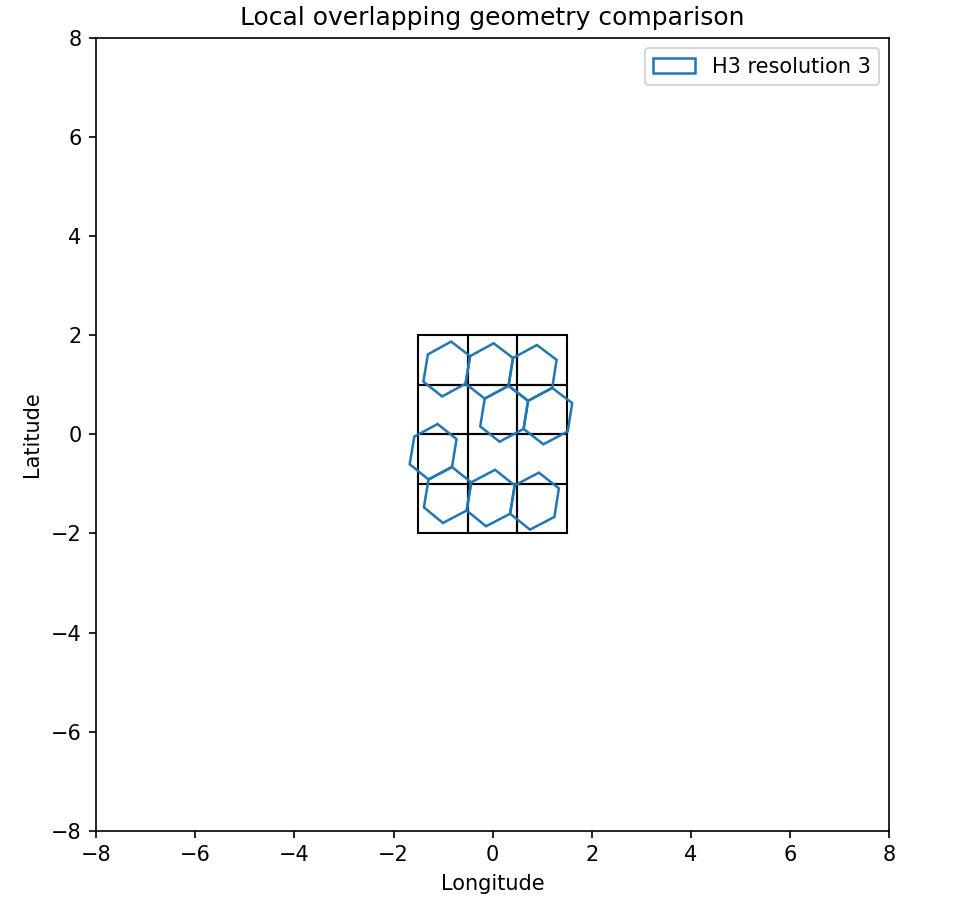
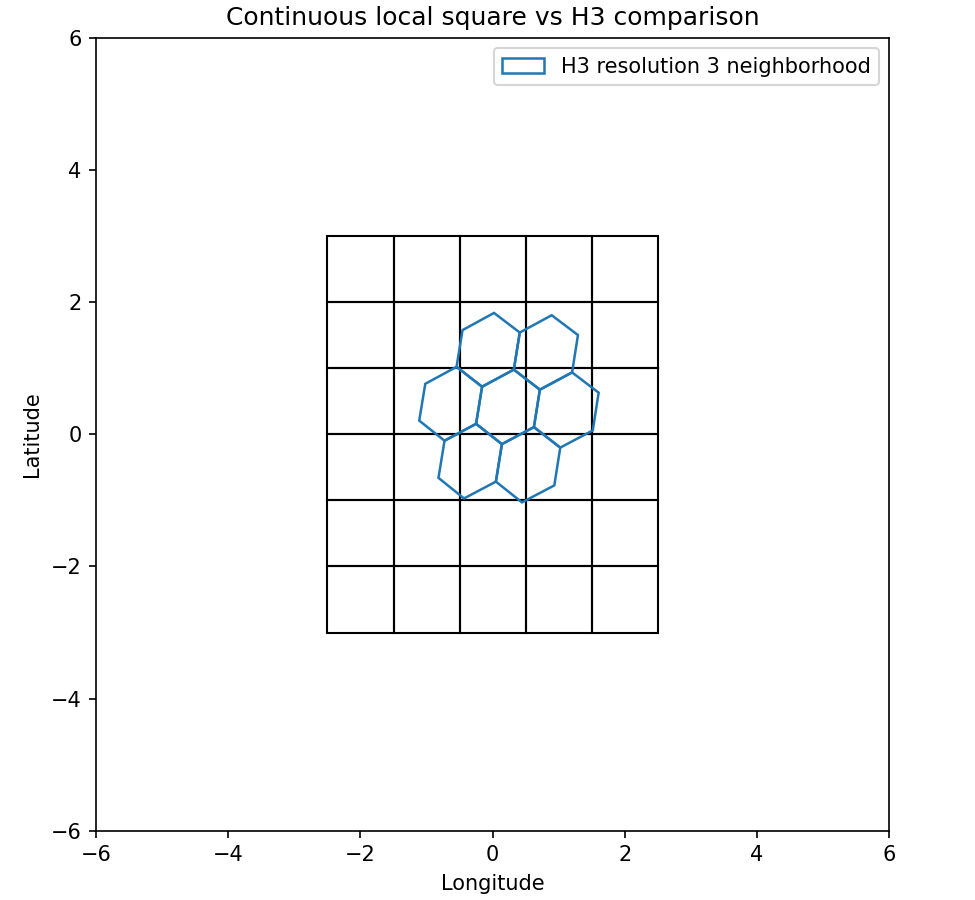
Use contiguous H3 neighborhood in local grid comparison

diff --git a/results/reports/06_compare-square-h3-grids.md b/results/reports/06_compare-square-h3-grids.md
@@ -31,7 +31,7 @@ How different are the square and H3 benchmark grids at a basic geometric level?
 
 ![Area comparison by latitude](../figures/06_compare_square_h3_area_by_latitude.png)
 
-![Local overlapping grid comparison](../figures/06_compare_square_h3_local_overlap.png)
+![Local overlapping grid comparison using a contiguous H3 neighborhood](../figures/06_compare_square_h3_local_overlap.png)
 
 ## Interpretation
 The two benchmark grids are comparable only in a rough sense. The square-grid cell area varies strongly with latitude, whereas the H3 grid uses cells with a much more stable characteristic area. This confirms that the square-versus-H3 comparison is inherently approximate, but still scientifically useful as a controlled geometric comparison.
